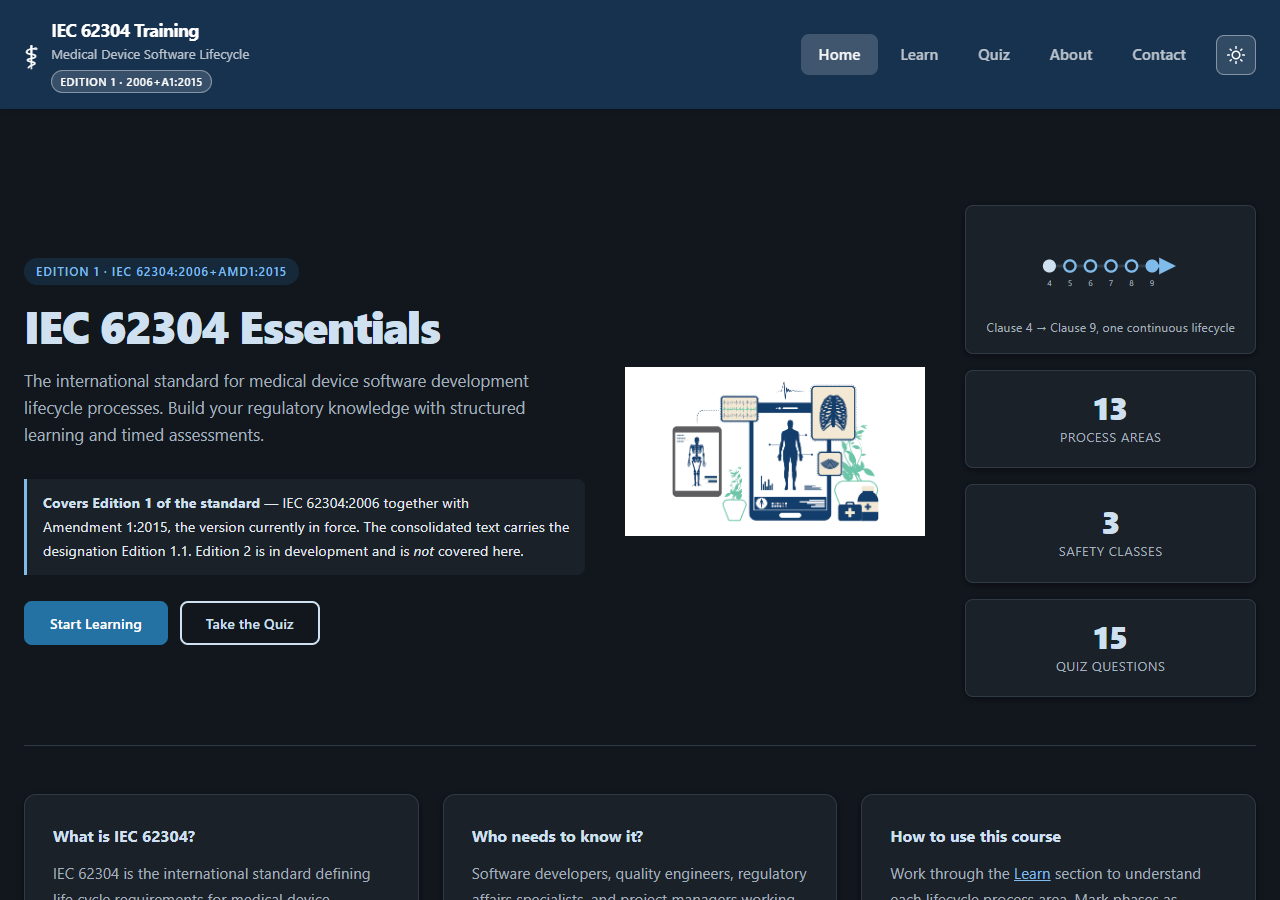
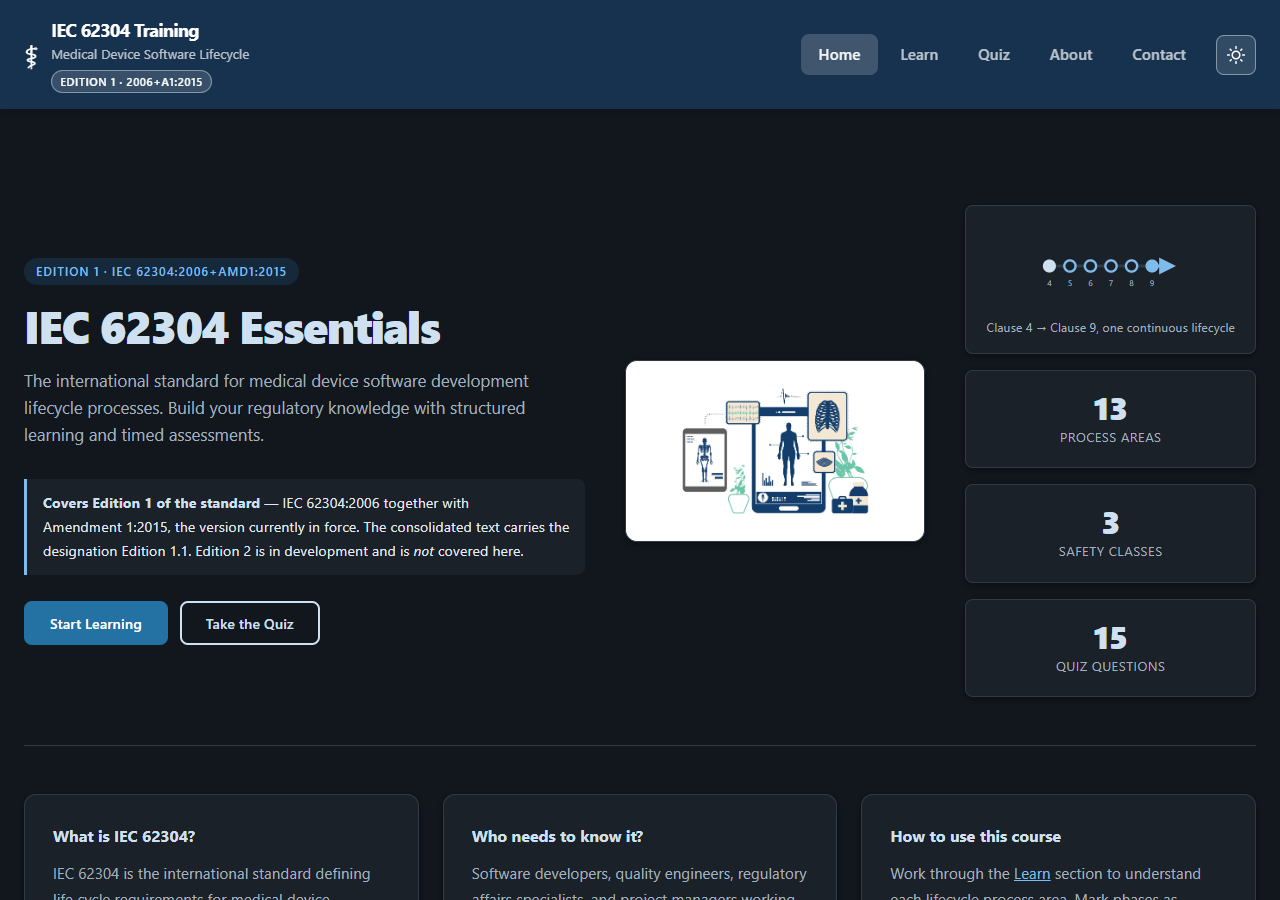
Update screen shots and readme for recent change.

Changed region(s): [[0.5, 0.3733, 0.7188, 0.6222]]

diff --git a/README.md b/README.md
@@ -19,7 +19,7 @@ currently in force. The consolidated text carries the designation Edition 1.1.
 
 ## Features
 
-- **Home page** — Introduction to IEC 62304 ED1 with key statistics and information (e.g., what is IEC 62304); a promotional strip below the introduction credits St John Lynch & Co and AskRiskIE side by side in one banner, sized to match the page and visible at every viewport
+- **Home page** — Introduction to IEC 62304 ED1 with key statistics and information (e.g., what is IEC 62304), an illustration ([assets/img/](assets/img/)) and a lifecycle-flow diagram alongside the stat cards; a promotional strip below the introduction credits St John Lynch & Co and AskRiskIE side by side in one banner, sized to match the page and visible at every viewport
 
 - **Learn page** — 13 expandable topic cards covering Clauses 4–9, loaded from JSON; generates the deliverables required at the selected safety class, on screen, as CSV or printed; toggle between Introductory and Advanced depth; filter by safety class (A/B/C) with a notice distinguishing *applies in full*, *applies in part* and *does not apply*, naming the specific sub-clauses, plus a standing ISO 14971 caution; each card carries a per-sub-clause applicability table; each card also links to a worked example of the document that process area would produce — previewable online or downloadable as a PDF, clearly marked as a training example and not an actual regulatory deliverable (see [docs/](docs/README.md)); study progress tracker, which requires the example document to have been opened at least once before a topic can be marked studied
 
